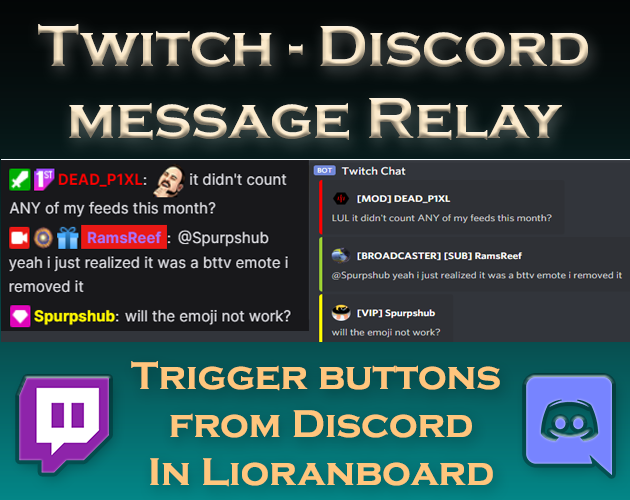
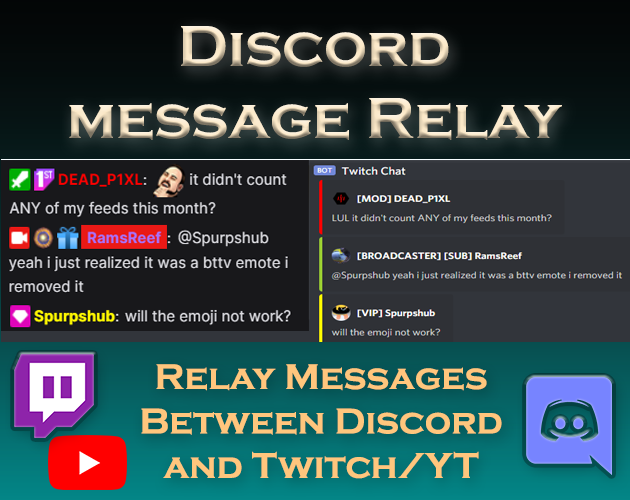
update discord relay

diff --git a/collections/_extensions/discord-relay.md b/collections/_extensions/discord-relay.md
@@ -4,183 +4,89 @@ title: Discord-Twitch Relay
 slug: discord-relay
 desc:  Relay messages between Twitch and Discord and send trigger from Discord to SAMMI
 category: social
-date: '2022-07-25T00:00:00-05:00'
+date: '2024-08-30T00:00:00-05:00'
 permalink: extensions/social/:slug
 download_url: https://christinak.itch.io/sammi-discord-relay
 developer_name: Christina K.
 developer_url: https://christinak.itch.io
 icon_local: discord_relay.png
-trailer: https://www.youtube.com/embed/Qn1puWHfMYs
+trailer: https://www.youtube.com/embed/zKUCkjm8FiA
 screenshots_local: discord_relay_ss.png, discord_deck.png
-version: 1.0
-sammi_version: 2022.4.0
+version: 2.0
+sammi_version: 2023.1.1
 platform: Twitch/Discord
 overview: |
-
-    Discord Relay is an extension for SAMMI capable of relaying messages between Twitch Chat and Discord.  
+    Discord Relay is an extension for SAMMI that allows you to relay messages between Twitch/YouTube Chat and Discord.
 
     **Features:**
 
-    **Forwards all your Twitch Chat channel messages to your selected Discord channel**
-    - can select any Twitch channel to listen to
-    - ability to ignore certain usernames, such as bots
-    - display user profile pictures, badges and color names in the relayed messages
-    - converts Twitch user mentions to Discord user mentions
-    - converts Twitch emotes to Discord emotes
+    - **Forward Twitch Chat Messages to Discord:**  
+    - Choose any Twitch channel to monitor.
+    - Ignore specific usernames, like bots.
+    - Display user profile pictures, badges, and color names in the relayed messages.
+    - Convert Twitch user mentions to Discord user mentions.
+    - Convert Twitch emotes to Discord emotes.
 
-    
-    **Forwards all Discord messages to your Twitch chat**
-    - can select any linked Twitch account in SAMMI to post the relayed messages to your Twitch chat
-    - can enable Discord triggers - all Discord messages will be also sent to your SAMMI, can set up triggers for message content (including wildcards) and Discord roles
-    - ability to ignore certain usernames, such as bots
-    - can limit the bot to only listen to specific Discord channels
-    - converts Discord user mentiond to Twitch user mentions
-    - empty Discord messages containing attachments relay the attachment URL instead
+    - **Forward YouTube Chat Messages to Discord:**  
+    - Choose any YouTube channel to monitor.
+    - Ignore specific usernames, like bots.
+    - Display user profile pictures, badges, and color names in the relayed messages.
 
-
-    **(Optionally) Listens to all Discord Direct Messages and sends them to your SAMMI as Discord DM triggers**
-    - only listens to your Discord bot's direct messages, not your personal account
-    - ability to set up Discord DM triggers in your SAMMI for message content (including wildcards)
-
-    *You can also only listen to Discord triggers and disable relaying messages.*
-    
+    - **Forward Discord Messages to Twitch or YouTube Chat:**  
+    - Select any linked Twitch/YouTube account in SAMMI to post relayed messages.
+    - Ignore specific usernames, like bots.
+    - Limit the bot to listen to specific Discord channels.
+    - Convert Discord user mentions to Twitch user mentions.
+    - If a Discord message is empty but contains attachments, the attachment URL will be relayed instead.
 setup: |
+    <div class="alert alert-warning" role="alert">This extension has been completely overhauled. If you're using a version earlier than 2.0, it's recommended to uninstall it and set up the new Discord Relay from scratch.</div>
 
-    1. [Installation](#installation)
-    2. [Open Relay](#openrelay)
-    3. [Close Relay](#closerelay)
-    4. [Open for Discord Triggers Only](#opendiscordtriggers)
-    5. [Discord Triggers and Pull Values](#discordtriggers)
-    6. [Discord Emojis](#discordemojis)
+    #### Installation
+    - Follow the [Extension Install Guide](https://sammi.solutions/extensions/install) to install the extension.
+    - A new premade deck will appear in your SAMMI Core. Edit all the values in the red **SETTINGS** button by right-clicking on it and selecting "Edit commands":
+        - Under the first green comment, add usernames you do NOT want to relay messages from in both directions. Use the Array Insert command (Array Name = `ignore`) for each username. For example, you may want to exclude bot messages.
+        - General Discord Relay Settings:
+            - `Discord Server`: Enter the Discord server ID where you want to relay Twitch chat messages.(see instructions below).
+            - `Discord Webhook`: Enter the Discord webhook URL you created for the channel where you want to relay Twitch chat messages.
+            - `Discord Bot Token`: Enter your Discord bot token (see instructions below).
+        - Twitch Relay Settings:
+            - `Twitch Username`: Enter the Twitch username (likely your bot's name) used to post relayed Discord messages to Twitch chat.
+            - `Twitch Channel to Join`: Enter the Twitch channel username you want to monitor and post messages to.
+        - YouTube Relay Settings:
+            - `YouTube Username`: Enter the YouTube name (not the handle/username) used to post relayed Discord messages in YouTube chat. Ensure it matches the name linked in SAMMI.
 
-    <h4 class="anchor-header" id="installation">Installation</h4>
-   
-    1. Install the extension. You can follow the [Extension Install Guide](https://sammi.solutions/extensions/install).
-    2. You should see a new premade deck in your SAMMI Core. We will need to edit all the values in the red **SETTINGS** button. Right click on the button - Edit commands: 
-        - Under the first green comment, you can add usernames you do NOT want to relay messages from (both Discord and Twitch). Use Array Insert command (Array Name = `ignore`) for each username. For example, you might not want to relay messages from any bots.
-        - Fill out the Discord Relay Setup command (Bridge must be running for you to see it): 
-            - `Twitch Username` - your Twitch username (most likely your bot name) you want to use to post all relayed Discord messages to Twitch chat, must be linked in your LB
-            - `Twitch Channel to Join` - Twitch channel username you wish to join to listen to chat message to relay and to post any relayed Discord messages
-            - `Discord Webhook` - Discord webhook URL that you created for your Discord channel where
-                  you want to relay your Twitch chat messages.\
-                  To create a new Discord webhook, right click on the channel in your Discord - Edit channel - Integrations - Create Webhook. Copy its URL and paste it. 
-            - `Discord Bot Token` - your Discord bot token you created and invited to your server.\
-                To create a new bot: 
-                1. Go to [Discord Developer Applications](https://discord.com/developers/applications).
-                2. Click on 'New Application' button. ![](discord_relay_ex.png)
-                3. Give it a name.
-                4. After it is created, click on `Bot` in the left side menu. Click on `Add Bot` button and click on `Yes, do it!` button.\
-                *If you get 'Too many users have this username, please try another.' error, try changing your application name to something less generic.*  ![](discord_relay_ex2.png)
-                5. Once your bot is created, click on `Click to reveal token` link, copy the token and paste it in the `Discord Bot Token` in SAMMI. All other settings should be left at default. ![](discord_relay_ex3.png)
-                6. Navigate to the 'Bot' menu and make sure `MESSAGE CONTENT INTENT` is checked. Otherwise all relayed messages will be empty. ![](discord_relay_ex8.png)
-                7. Click on 'OAuth2' - URL Generator in the side menu and check `bot` in the scopes list. This will open up a new menu below where you need to check `Read Message History`. This is only for reading messages so they can be relayed to your Twitch chat, your bot does not need any other permissions.
-                8. Scroll up a bit and click on `Copy`. Open the link in a new browser window and invite the bot to your Discord server. You can restrict your bot to only see certain channels (by editing the channels and restricting it from seeing them), otherwise it will be relaying messages from all the channels it can see on your server.![](discord_relay_ex4.png)
-    3. Rest of the fields - do not change anything in those, automatically filled.
-    4. Click Save and Save again. 
-    5. Press the green **OPEN RELAY** button or reload your Bridge to start relaying all messages. You should get a yellow notification message the Relay has been opened.\
+    **How to Create a Discord App and Retrieve Bot Token**  
 
-    *If you wish to manually enable the relay instead of having it automatically enabled every time you open your Bridge, remove the Stream Deck/Bridge Connected trigger from the button (right click-Edit Triggers)*
+    *Please note the screenshots below show 'Discord Triggers' as the Discord bot name, but you can name it anything you like.*
+    1. Create a new application at [Discord Developer Portal](https://discord.com/developers/applications).
+       ![image](discord_triggers/createbot1.png) 
+    2. Go to your new application, select Bot -> Reset token -> Copy and paste it into the 'Discord Bot Token' box in the Settings button in SAMMI.
+       ![image](discord_triggers/createbot2.png)
+    3. Still in 'Bot' menu, ensure `MESSAGE CONTENT INTENT` is enabled.
+       ![image](discord_relay/intents.png)
+    4. Go to OAuth2 -> URL Generator > Select Bot -> Click 'Copy' button (no need to select any additional permissions).
+       ![image](discord_triggers/createbot4.png)
+    5. Paste the URL into your browser, select the server you want to invite the bot to, and click 'Authorize'. 
+       ![image](discord_triggers/createbot5.png)
+    5. The bot will have default permissions as the 'everyone' role. You can either grant it a role that has the permissions you need or manually set them in the server settings so it can see the channels you want it to monitor for messages to relay.
 
-    <h4 class="anchor-header" id="openrelay">Open Relay</h4>
-    
-    This button opens the Relay to listen to and relay all your Discord messages to your selected Twitch Chat channel and all your Twitch Chat channel's messages to your selected Discord channel. 
+    **How to Retrieve Discord Server ID**
+    1. Enable developer mode in Discord:
+        - Open Discord User Settings -> Advanced -> Enable Developer Mode.
+    2. Right-click on the sidebar icon of your server -> Copy ID.
 
-    - `Status` - Enable
-    - `Discord Trigger` - tick it if you wish to also send Discord triggers for any Discord messages (more information can be found in [Discord Triggers](discordtriggers) section)
-    - `Listen to Discord DMs` - tick if you wish to listen to your Discord Bot's Direct Messages
-        - these will only get sent as triggers to your SAMMI and will not be relayed to your Twitch Chat
-        - the extension can't listen to your personal account's DMs, only your bot
-        - more information can be found in [Discord Triggers](discordtriggers) section
+    #### Open Relay
+    - Configure additional settings within the green **OPEN RELAY** button:
+        - Type: Choose either Twitch or YouTube to relay messages to and from.
+        - Discord Message Mode:
+        - Pretty: Relays Twitch chat messages in an embedded format.
+        - Standard: Relays Twitch chat messages in text format. Automatically switches to Standard if the Twitch channel receives too many messages due to Discord webhook limits.
 
-    - `Discord Mode` -
-        - Pretty - will relay Twitch chat messages in embed format (includes user's profile picture and chat color)
-        - Standard - will relay Twitch chat messages in text format (automatically switches to Standard if your Twitch channel has lots of messages due to Discord webhook limits)
+    #### Close Relay
+    - Stops relaying messages and disables Discord triggers.
 
-    <h4 class="anchor-header" id="closerelay">Close Relay</h4>
-    Closes the connection and stops relaying all the messages. Discord triggers will be also disabled. 
-
-    - `Status` - Close
-
-    <h4 class="anchor-header" id="opendiscordtriggers" markdown="1">Open for Discord Triggers Only</h4>
-    Opens the connection to only listen to Discord triggers. No messages will be relayed. 
-
-    <h4 class="anchor-header" id="discordtriggers" markdown="1">Discord Triggers</h4>
-    If you press **Open Relay** (and tick Discord Triggers inside the button) or **Open for Discord Triggers Only** button, all Discord messages will be also sent to your SAMMI where you can set up triggers for them. 
-
-    *You can retrieve the Discord role's ID by going to Discord - Server Settings - Roles - right click on the role - Copy ID*
-    
-    Add a trigger for a **Regular Discord channel message:**
-    - Right click on the button - Edit Triggers - + - Extension trigger
-    - Check allow empty Wildcard (important)
-    - Discord Trigger name has 3 parts
-        1. `discordRelay` = must be placed at the beginning, signifies it's coming from Discord 
-        2. `<message>` = specific message to listen to (can include wild cards)
-        3. `[<role IDs>]` = specific Discord roles to listen to
-            - to allow any role, use `[*]` 
-            - to allow a specific role, use `[*YourRoleID*]`
-    - Example: `discordRelay hello world! [*]` - triggers for any Discord messages 'hello world' (must be an exact match) coming from any Discord role
-    - Example 2: `discordRelay hi * [*]` -  triggers for any Discord message starting with 'hi', followed by
-       any other word(s), coming from any Discord role
-    - Example 3: `hello role! [*123456789789*]` - triggers for any Discord message 'hello role!' (exact match),
-       but it will only trigger for a specific Discord role ID `123456789789`
-    - Example 4: `discordRelay hey * [123456789789]` - triggers for any Discord message starting with 'hey', followed by any other word(s), but it will only trigger for a specific Discord role ID `123456789789`
-
-    **Trigger Pull Data Values for regular Discord Messages**\
-    After your button gets triggered, you can use Trigger Pull Data command to pull the following information.
-
-    | Pull Value | Description | 
-    |-------|--------|
-    username      | Discord username excluding discriminator (for example `Christinna`)
-    discriminator | Discord discriminator (`9031` is the discriminator for Christinna#9031)
-    nickname      | specific nickname the user uses for the selected server (will be null if none)
-    userID        | Discord user ID
-    avatar        | Discord user avatar image URL
-    message       | message the user sent
-    channel_id    | channel ID of where the message originated
-    guild_id      | Discord server ID of where the message originated
-    roles         | array containing all Discord server roles IDs the specific user has
-    mention_roles | array containing all role mentions the user made in their message
-    mentions      | array containing all user mentions the user made in their message
-    attachments   | array of all attachment URLs (if user added any to their message)
-    joined        | date the user joined the Discord server
-    {:class='table table-primary'}
-
-    Add a trigger for a **Discord Direct Message:**
-    - Right click on the button - Edit Triggers - + - Extension trigger
-    - Discord DM Trigger name has 2 parts: 
-        1. `discordRelayDM` = must be placed at the beginning, signifies it's coming from Discord DM
-        2. `<message>` = specific message to listen to (can include wild cards)
-    - Example: `discordRelayDM cool *` - triggers for any Discord DM message starting with the word `cool` and having at least another character or word after (because of the *)
-
-    **Trigger Pull Data Values for Discord Direct messages**\
-    After your button gets triggered, you can use Trigger Pull Data command to pull the following information.
-
-    | Pull Value | Description | 
-    |-------|--------|
-    username      |Discord username including discriminator (for example Christinna)
-    discriminator | Discord user discriminator (for ex. 9031 is the discriminator for Christinna#9031)
-    userID        | Discord user ID
-    avatar        | Discord user avatar image URL
-    message       | message the user sent
-    channel_id    | Discord channel ID of where the message originated
-    attachments   |array of all attachment URLs (if the user added any to their message)
-    {:class='table table-primary' }
-
-    <h4 class="anchor-header" id="discordemojis">Discord Emojis</h4>
-    This button should retrieve all your custom Discord emojis and save them in `discordRelayEmojis.ini` file in your SAMMI folder. If your Twitch viewers use any of the same emojis in the Twitch chat, they will be auto converted and properly displayed in your relayed messages to Discord.\
-    Do not edit anything in this button. Simply press it and it should do all the work for you. If you decide to make any changes in your .ini file, do not press the button again as it will override any changes you made.
-
-    If your Twitch emojis do not match the Discord ones (= they have a different name), you can open the discordRelayEmojis.ini file and manually edit the Twitch emojis part.\
-      For example, you have a subscriber emoji on Twitch called `RamsreLord`, but your Discord custom emoji's name is `RamsreFish`. After pressing the button and opening the `DiscordEmojis.ini` file, the emojis (in our case 2 emojis) will be stored in an object like this: 
-      ```
-      default="{ %22RamsreFish%22: %22<:RamsreFish:1000155966555295785>%22, %22butterfly%22: %22<:butterfly:1000155926126415874>%22 }"
-      ```
-     You want to change the object key `RamsreFish` to `RamsreLord` as this is the Twitch emoji name which the extension will look for to replace it with the Discord emoji ID. Notice that `%22` and `%22` denote double quotes and must not get accidentally deleted. In our case the modified entry would look like this:  
-      ```
-      default="{ %22RamsreLord%22: %22<:RamsreFish:1000155966555295785>%22, %22butterfly%22: %22<:butterfly:1000155926126415874>%22 }"
-      ```
-      
-    **IMPORTANT:** The API cannot see Discord emojis you did not upload yourself manually. If your Discord server emojis come from linking your Discord to your Twitch channel, they will not show up in the list. You can fix this by manually reuploading all the externally linked emojis in your Discord server and pressing the Discord Emojis button.
+    #### Discord Emojis
+    - Retrieve all custom Discord emojis and save them in the `discordRelayEmojis.ini` file in your SAMMI folder. This feature allows auto-conversion of matching Twitch emojis to Discord emojis in relayed messages. If you need to edit these manually, do not press the button again, as it will override your changes.
 privacy_collect: false
 privacy_website: false
 privacy_policy:
